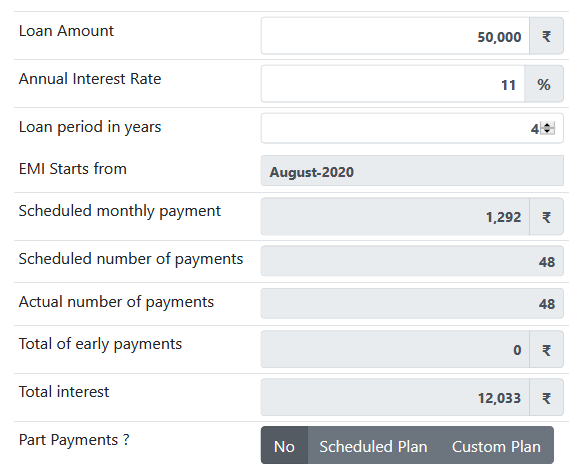
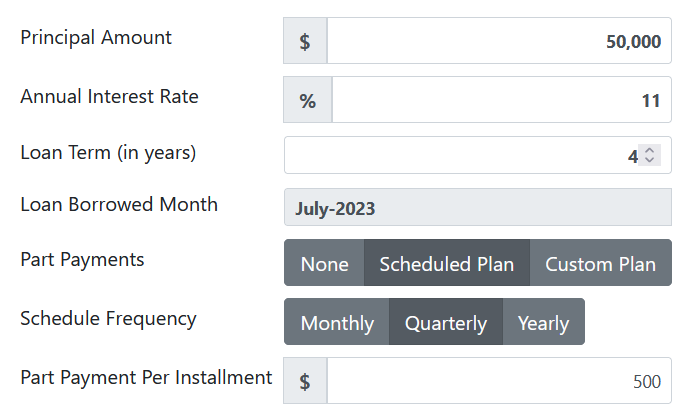
Corrections

diff --git a/index.html b/index.html
@@ -14,6 +14,7 @@
 
   <title>LoanEase - Jabadurai Selvaraj</title>
 
+  <link rel="icon" href="img/favicon.ico" type="image/x-icon">
 
   <!-- Compiled and minified CSS -->
   <link rel="stylesheet" href="./css/bootstrap.min.css" />

diff --git a/README.md b/README.md
@@ -80,14 +80,14 @@ Welcome to the Loan Repayment Planner app! This user guide will provide you with
 
 Congratulations! You now have a comprehensive understanding of how to use the Loan Repayment Planner app. Start managing your loan repayment journey effectively and achieve your financial goals with ease.
 
-### EMI calculator fields - basic
+### Input Fields
 
 ![image](./img/fields.png)
 
-### EMI schedule
+### Payment Schedule
 
 ![image](./img/schedule.png)
 
-### EMI calculator fields - With part-payment
+### How it works with Part Payment options
 
 ![image](./img/part-payment.png)
